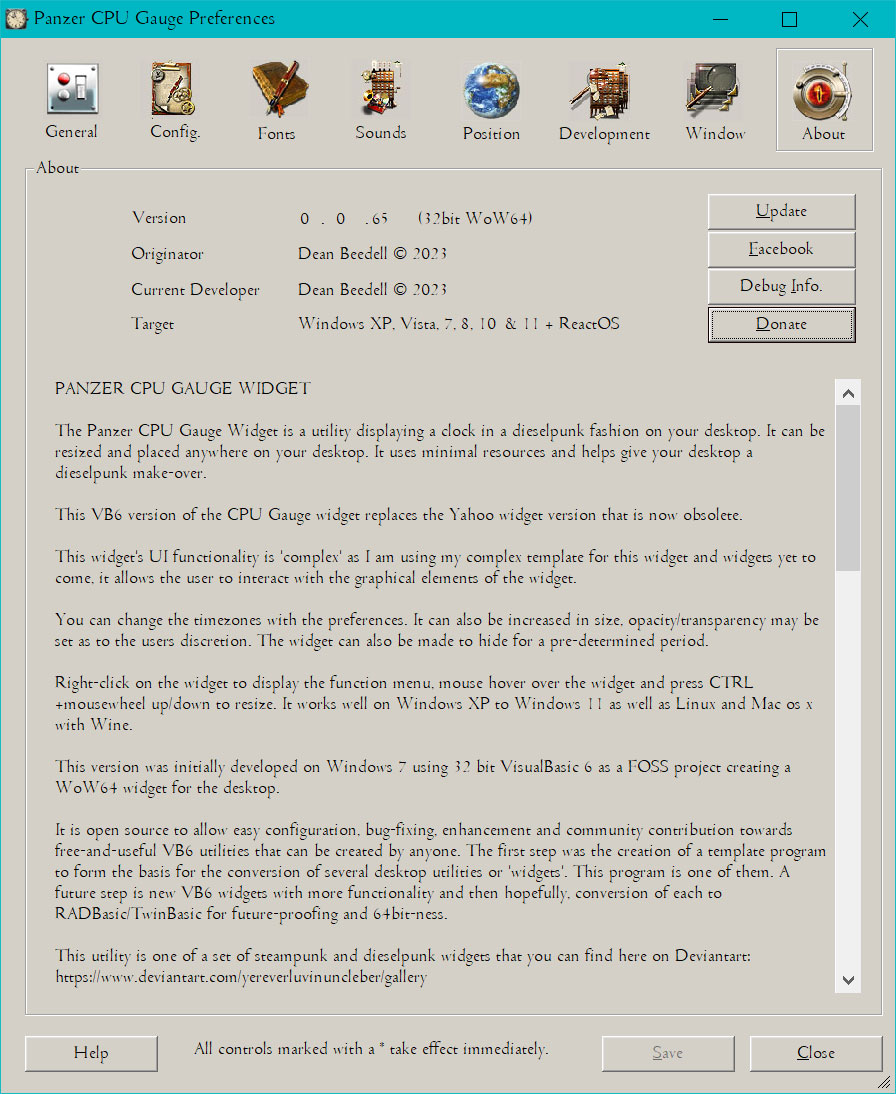
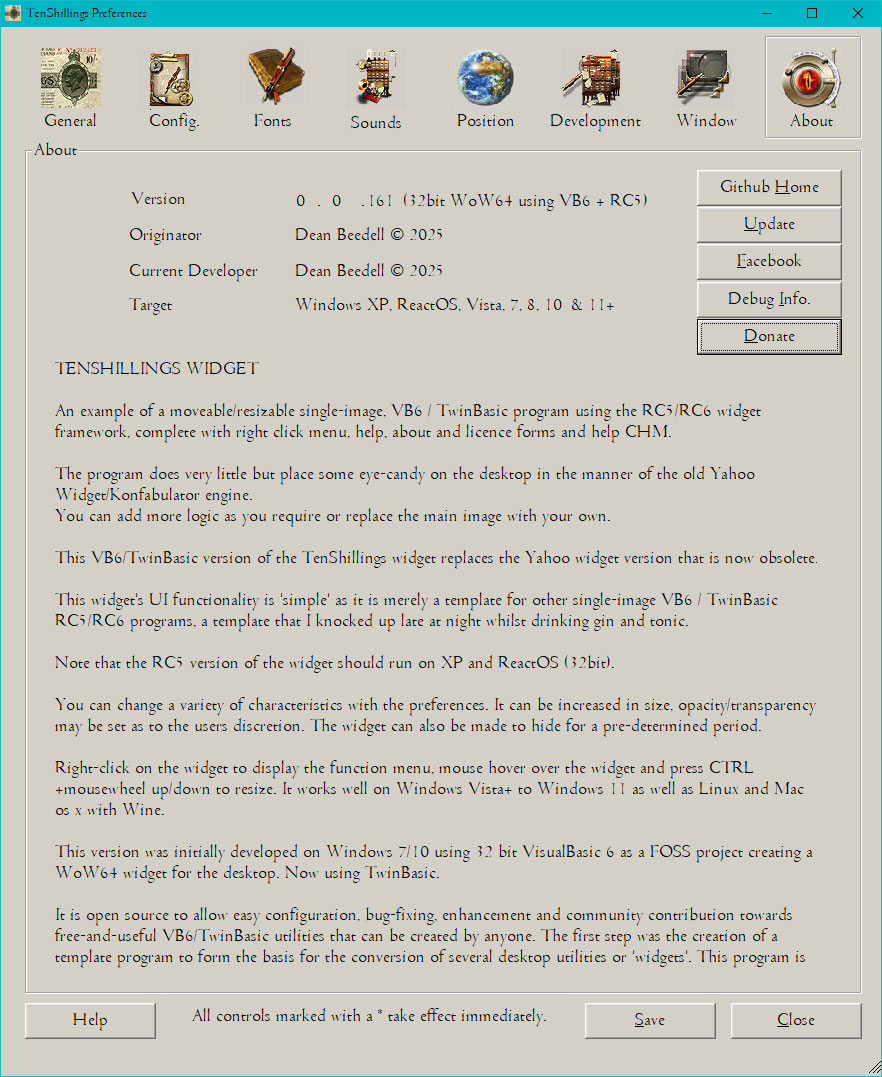
update the help HTML with new text and images

diff --git a/help/TenShillings.html b/help/TenShillings.html
@@ -29,15 +29,16 @@ TwinBasic program using the RC5 widget framework, complete with right click
 menu, help, about and licence forms and help CHM. Basically putting an image on 
 your desktop that can act as a big resizable icon.<br />
 <br />
-The RC5 version here operates on XP/ReactOS, Vista+ to Windows 11+. There is 
+The RC5 version here operates on Windows XP/ReactOS, Vista+ to Windows 11+. There is 
 another version on github in my repo. that operates with RC6, the latest version 
-of RichClient. Other than being able to run on XP type systems, there is no 
+of RichClient. Other than the RC5 version being able to run on XP type systems, there is no 
 other difference. <br />
 <br />
 The program does very little but place some eye-candy on the desktop in the 
-manner of the old Yahoo Widget/Konfabulator engine. You can add more logic as 
-you require or replace the main image with your own. This is merely a template 
-for other single-image VB6 / TwinBasic RC5/6 programs - one that I knocked up 
+manner of the widgets from the old Yahoo Widget/Konfabulator engine. You can add more 
+functionality/logic as 
+you require or replace the main image with your own. This program is merely a template 
+for other single-image VB6 / TwinBasic RC5/6 programs - a template program that I knocked up 
 late at night whilst drinking gin and tonic.&nbsp; <br />
 <br />
 It can be resized and 
@@ -47,11 +48,11 @@ widget and not the other widgets shown above. The others are a combination of
 javascript and VB6 desktop widgets, the older .js versions will be converted to 
 VB6 'widgets' one at a time as time allows.<br />
 <br />
-Right-click on the widget to display the function menu, mouse hover over the 
-widget and press CTRL+mousewheel up/down to resize. It works well on Windows XP 
-to Windows 11.<br />
+Back to the widget itself, a right-click on the widget will display the function menu, mouse-hover over the 
+widget and press CTRL+mousewheel up/down to resize. Just the mousewheel up/down 
+by itself to rotate. It works well on Windows XP to Windows 11+<br />
 <br />
-This version was developed on Windows 7/10 using 32 bit VisualBasic 6 as a FOSS 
+This program was developed on Windows 7/10 using 32 bit VisualBasic 6 as a FOSS 
 project, creating a WoW64 widget for the desktop. <br />
 <br />
 It is open source to allow easy configuration, bug-fixing, enhancement and 
@@ -60,7 +61,7 @@ be created by anyone. The first step was the creation of this template program
 to form the basis for the conversion of other desktop utilities or 'widgets' 
 from other engines as shown above. A future step is new VB6 widgets with more 
 functionality and then hopefully, conversion of each to RADBasic/TwinBasic for 
-future-proofing and 64bit-ness. <br />
+future-proofing and 64bit-ness as time progresses.<br />
 <br />
 This utility is one of a set of steampunk and dieselpunk widgets. That you can 
 find them all here on Deviantart:
@@ -103,8 +104,10 @@ different name. The functionality will be the same.<br />
 	yourself. This should give you the confidence that you need. There is a link 
 	on the tool's right click menu that will take you straight through to the 
 	github page here:
-	<a href="https://github.com/yereverluvinunclebert/Panzer-Battery-Gauge-VB6">
-	https://github.com/yereverluvinunclebert/Panzer-Battery-Gauge-VB6</a><br />
+	<a href="https://github.com/yereverluvinunclebert/TenShillings-RC5-Widget-VB6">
+	yereverluvinunclebert/TenShillings-RC5-Widget-VB6: RC5 version of the Ten 
+	Shillings VB6/TwinBasic Desktop widget/trinket specifically for XP and 
+	ReactOS. (github.com)</a><br />
 	<br />
 	The a/v tool I have installed on my PC is Avast - the following&nbsp;is what 
 	occurs on installation on my system: When Avast first encounters the 
@@ -126,29 +129,32 @@ different name. The functionality will be the same.<br />
 	<br />
 	This is a new VB6 utility so it is an inevitable occurrence - being a new 
 	and unknown binary, it is of course&nbsp;frustrating but it will eventually go 
-	away.&nbsp;<br />
+	away.&nbsp;If you feel like raising the program as a false positive to your 
+	own anti-virus vendor it would be appreciated.<br />
 	<br />
 	<h3>Basic Functionality</h3>
 	<img alt="sauron.png" src="sauron.png" style="width: 48px; height: 48px; float: left;" title="sauron.png" />When 
 	you install and run the widget for the first time it will present you with 
-	the licence screen and launch the prefs. You must accept the licence terms 
-	to proceed further. The TenShillings will then appear on your main monitor, 
-	animating slowly using minimal resources. On first run it will drop itself 
+	the licence screen and launch the preferences. You must accept the licence terms 
+	to proceed further. The TenShillings widget will then appear on your main monitor. On first run it will drop itself 
 	somewhere on your monitor, use your mouse to drop it where you require, it 
 	will remember that position.<br />
 	<br />
-	You can resize it, click on the gauge, press the CTRL key and use the mouse 
+	You can resize it, click on the widget, hover over the image, press the CTRL key and use the mouse 
+	scrollwheel up and down.<br />
+	You can rotate it, click on the widget, hover over the image, use the mouse 
 	scrollwheel up and down.<br />
 	<br />
 	The Preference screen will pop up on first run. It allows you to configure 
-	the functionality of &nbsp;the TenShillings component of the TenShillings 'widget'.&nbsp; This widget can be increased in size, animation speed 
+	the functionality of &nbsp;the TenShillings widget'.&nbsp; This widget can be increased in size, animation speed 
 	can be changed, opacity/transparency may be set as to the user's discretion. 
 	The widget can also be made to hide for a pre-determined period. <br />
 	<br />
-	If the application is already running then you can double-click to run a new 
-	instance of the binary (Panzer-Battery-Gauge-VB6.exe) and you will have two 
+	If the application is already running then you can double-click on the 
+	binary file to run a new 
+	instance of the binary (TenShillings-RC5-Widget-VB6.exe) and you will have two 
 	or more TenShillings widgets running on the desktop, not quite sure why you'd want 
-	to but you can. Widgets tend to operate underneath all your other programs 
+	to but you can. Note that widgets tend to operate underneath all your other programs 
 	and sit quietly on the desktop doing their 'thing'.<br />
 	<br />
 	<img alt="the gauge" src="TenShillings.jpg" title="the gauge" height="444" width="789" /><br />
@@ -313,7 +319,7 @@ different name. The functionality will be the same.<br />
 	owner and creator -&nbsp; ie. from me.<br />
 	<span style="font-weight: bold;"><br />
 	<br />
-	Reveal Widget in Windows Explorer.</span><br />
+	Reveal Widget in Windows Explorer.rc5</span><br />
 	<br />
 	When you select this option, a file explorer window will open using the 
 	folder location where your application is situated. A most useful function 
@@ -339,8 +345,8 @@ different name. The functionality will be the same.<br />
 	Development Preferences. In the prefs, enter the path here to TenShillings 
 	widget's .vbp file (a VB6 project file). If the widget's source code has 
 	been downloaded from github, unpacked and placed somewhere locally - in 
-	addition, if you have installed the VB6 IDE, this menu option will add an 
-	option to conveniently launch the VB6 IDE, opening up the project, so you 
+	addition, if you have installed the VB6 or TwinBasic IDE, this menu option will add an 
+	option to conveniently launch your chosen IDE, opening up the project, so you 
 	can edit the program, re-code and compile dynamically. &nbsp;A link to the 
 	current github location will be found on the update button on the about page 
 	of the preferences.<br />
@@ -348,8 +354,9 @@ different name. The functionality will be the same.<br />
 	<span style="font-weight: bold;">Switch off my functions &amp; Turn all my 
 	functions ON</span><br />
 	<br />
-	These options are a toggle to stop and start the rotation of the hour, 
-	minute, second hands and date functions.<br />
+	These options are a toggle to stop and start any functionality the program 
+	has. This particular program doesn't do much as it is just a template for 
+	future programs. So these options are left as examples.<br />
 	<br />
 	<span style="font-weight: bold;">Lock Widget</span><br />
 	<br />
@@ -377,31 +384,28 @@ preference utility is an approximate analogue of the Yahoo widget preferences
 screen and replicates much of its functionality.<br />
 <br />
 <br />
-<img alt="The General Prefs pane" src="prefs-general.jpg" style="width: 882px; height: 1087px;" title="The General Prefs pane" /><br />
+<img alt="The General Prefs pane" src="prefs-general.jpg" title="The General Prefs pane" /><br />
 <span style="font-weight: bold;">Fig 07. The General Prefs pane.<br />
 <br />
+<br />
+<br />
 </span>
-<img alt="sauron.png" src="sauron.png" style="width: 48px; height: 48px; float: left;" title="sauron.png" /><span style="color: rgb(0, 0, 0); font-family: &quot;Times New Roman&quot;; font-size: medium; font-style: normal; font-weight: 400; letter-spacing: normal; orphans: 2; text-align: left; text-indent: 0px; text-transform: none; white-space: normal; widows: 2; word-spacing: 0px; display: inline ! important; float: none;"><br />
-The General Panel contains the most important user-configurable items required 
+<span style="color: rgb(0, 0, 0); font-family: &quot;Times New Roman&quot;; font-size: medium; font-style: normal; font-weight: 400; letter-spacing: normal; orphans: 2; text-align: left; text-indent: 0px; text-transform: none; white-space: normal; widows: 2; word-spacing: 0px; display: inline ! important; float: none;"><br />
+<img alt="sauron.png" src="sauron.png" style="width: 48px; height: 48px; float: left;" title="sauron.png" />The General Panel contains the most important user-configurable items required 
 for the program to operate correctly. <br />
+<br />
 <br />
 Note that you can drag the right hand lower corner to resize the prefs.<br />
 <br />
-You can enable or disable the smooth pointer&nbsp;functionality.&nbsp;This will slightly 
-increase Battery usage as it forces the widget to use a more frequent timer that 
-works on a 20ms access time, when placing the hands.&nbsp;On modern systems the 
-Battery usage of this widget is negligible less being than 0.1%. As a result&nbsp;the 
-overhead can be safely ignored. The function to disable the widget is merely 
+&nbsp;The function to disable the widget is merely 
 here to replicate the functionality of the Yahoo and Xwidget versions of this 
 widget. <br />
-The sampling interval controls the frequency with which the program will request 
-a Battery usage update from the o/s. Three to five second interval is sensible.<br />
 <br />
 The auto start option allows the widget to automatically run on system restart. 
 The program is very slimline and will have little or no impact on system startup 
 times.<br />
 </span><br />
-<img alt="The Config Prefs pane" src="prefs-config.jpg" style="width: 882px; height: 1087px;" title="The Config Prefs pane" /><br />
+<img alt="The Config Prefs pane" src="prefs-config.jpg" title="The Config Prefs pane" /><br />
 <span style="font-weight: bold;">Fig 08. The Config Prefs pane.<br />
 <br />
 </span>
@@ -440,7 +444,7 @@ and balloon tooltips. Enable/disable each type here as you wish.<br />
 </span><span style="font-weight: bold;"><br />
 <br />
 </span>
-<img alt="The Fonts Prefs pane" src="prefs-fonts.jpg" style="width: 882px; height: 1087px;" title="The Fonts Prefs pane" /><br />
+<img alt="The Fonts Prefs pane" src="prefs-fonts.jpg" title="The Fonts Prefs pane" /><br />
 <span style="font-weight: bold;">Fig 09. The Fonts Prefs pane.<br />
 <br />
 </span>
@@ -466,7 +470,7 @@ The option to reactivate the message pop-ups is available to allow you to reset
 and re-enable all messages. that you have previously hidden.<br />
 </span><span style="font-weight: bold;"><br />
 </span>
-<img alt="The Sound Prefs pane" src="prefs-sounds.jpg" style="width: 882px; height: 1087px;" title="The Sound Prefs pane" /><br />
+<img alt="The Sound Prefs pane" src="prefs-sounds.jpg" title="The Sound Prefs pane" /><br />
 <span style="font-weight: bold;">Fig 10. The Sound Prefs pane.<br />
 <br />
 </span>
@@ -476,7 +480,7 @@ of the animations have associated sounds, you can control these here.<br />
 <br />
 </span><span style="font-weight: bold;"><br />
 </span>
-<img alt="The Position Prefs pane" src="prefs-position.jpg" style="width: 882px; height: 1087px;" title="The Position Prefs pane" /><br />
+<img alt="The Position Prefs pane" src="prefs-position.jpg" title="The Position Prefs pane" /><br />
 <span style="font-weight: bold;">Fig 11. The Position Prefs pane.<br />
 <br />
 </span>
@@ -521,7 +525,7 @@ button top right, the position might not yet be saved. Wait a second or two
 after relocating the prefs pane.<br />
 </span><span style="font-weight: bold;"><br />
 </span>
-<img alt="The Development Prefs pane" src="prefs-development.jpg" style="width: 896px; height: 1094px;" title="The Development Prefs pane" /><br />
+<img alt="The Development Prefs pane" src="prefs-development.jpg" title="The Development Prefs pane" /><br />
 <span style="font-weight: bold;">Fig 12. The Development Prefs panel.<br />
 <br />
 </span>
@@ -544,7 +548,7 @@ placed somewhere locally - and the VB6 IDE is installed, this menu option will
 launch the VB6 IDE and the program will appear ready for editing.<br />
 <span style="font-weight: bold;"><br />
 </span>
-<img alt="The Window Prefs pane" src="prefs-window.jpg" style="width: 882px; height: 1087px;" title="The Window Prefs pane" /><br />
+<img alt="The Window Prefs pane" src="prefs-window.jpg" title="The Window Prefs pane" /><br />
 <span style="font-weight: bold;">Fig 13. The Window Prefs pane.<br />
 <br />
 </span>
@@ -569,7 +573,7 @@ automatically within the number of minutes selected below.<br />
 hard restart, after which the reduced opacity will be displayed.<br />
 <br />
 </span>
-<img alt="" src="prefs-about.jpg" style="width: 896px; height: 1094px;" /><span style="color: rgb(0, 0, 0); font-family: &quot;Times New Roman&quot;; font-size: medium; font-style: normal; font-weight: 400; letter-spacing: normal; orphans: 2; text-align: left; text-indent: 0px; text-transform: none; white-space: normal; widows: 2; word-spacing: 0px; display: inline ! important; float: none;"><br />
+<img alt="" src="prefs-about.jpg" /><span style="color: rgb(0, 0, 0); font-family: &quot;Times New Roman&quot;; font-size: medium; font-style: normal; font-weight: 400; letter-spacing: normal; orphans: 2; text-align: left; text-indent: 0px; text-transform: none; white-space: normal; widows: 2; word-spacing: 0px; display: inline ! important; float: none;"><br />
 </span><span style="font-weight: bold;"><br />
 </span><br />
 <span style="font-weight: bold;">Fig 14. The About Prefs pane.</span><br />
@@ -590,10 +594,10 @@ that you can use to resize the pane as you wish.<br />
 <h3>Technology:&nbsp;<br />
 </h3>
 <img alt="sauron.png" src="sauron.png" style="width: 48px; height: 48px; float: left;" title="sauron.png" />The 
-utility was created using VB6 and the RC6/Cairo graphic wrapper from Olaf 
+utility was created using VB6 and the RC5/Cairo graphic wrapper from Olaf 
 Schmidt. Some brief history: VB6 was once Microsoft's vaunted flagship language 
 but they abandoned it. I used VB6 to a) prove it can be done and b) to 
-reacquaint myself with the technology further. Olaf's RC6 upgrades VB6 to use a 
+reacquaint myself with the technology further. Olaf's RC5 upgrades VB6 to use a 
 multi-platform modern graphics engine not dependent of VB6 native forms. In 
 addition a chap called Wayne Phillips has come up with a VB6 alternative that is 
 100% VB6 language compatible&nbsp;<span style="text-decoration: underline;">and is 
@@ -621,14 +625,12 @@ Linux and Mac OSX, both running Wine.
 	for this dock which has sped the development process
 	<span style="text-decoration: underline;">immeasurably</span>.<br />
 	<br />
-	Olaf Schmidt&nbsp;&nbsp;&nbsp; - This tool was built using the RichClient RC6 Cairo wrapper 
-	for VB6. Specifically the components using transparency. &nbsp;Olaf made changes 
-	to his libraries specifically for my needs - impressive. Thanks for the 
-	massive effort Olaf in creating Cairo counterparts for all the native VB6 
-	controls and giving us access to advanced features&nbsp;such as image and control 
-	transparency.&nbsp;In addition, this program makes use of Olaf's PSD parser. His 
-	code allows the program to make use of a Photoshop PSD file that contains 
-	its transparent graphics in layered form. &nbsp;<br />
+	Olaf Schmidt&nbsp;&nbsp;&nbsp; - This tool was built using the RichClient RC5 
+	Cairo wrapper for VB6. Specifically the components using transparency.&nbsp;Olaf 
+	made changes to his libraries specifically for my needs - impressive. Thanks 
+	for the massive effort Olaf in creating Cairo counterparts for all the 
+	native VB6 controls and giving us access to advanced features&nbsp;such as image 
+	and control transparency.&nbsp;<br />
 	&nbsp;&nbsp; &nbsp; <br />
 	Shuja Ali (codeguru.com) for his settings.ini code.<br />
 	Registry reading code from ALLAPI.COM.<br />
